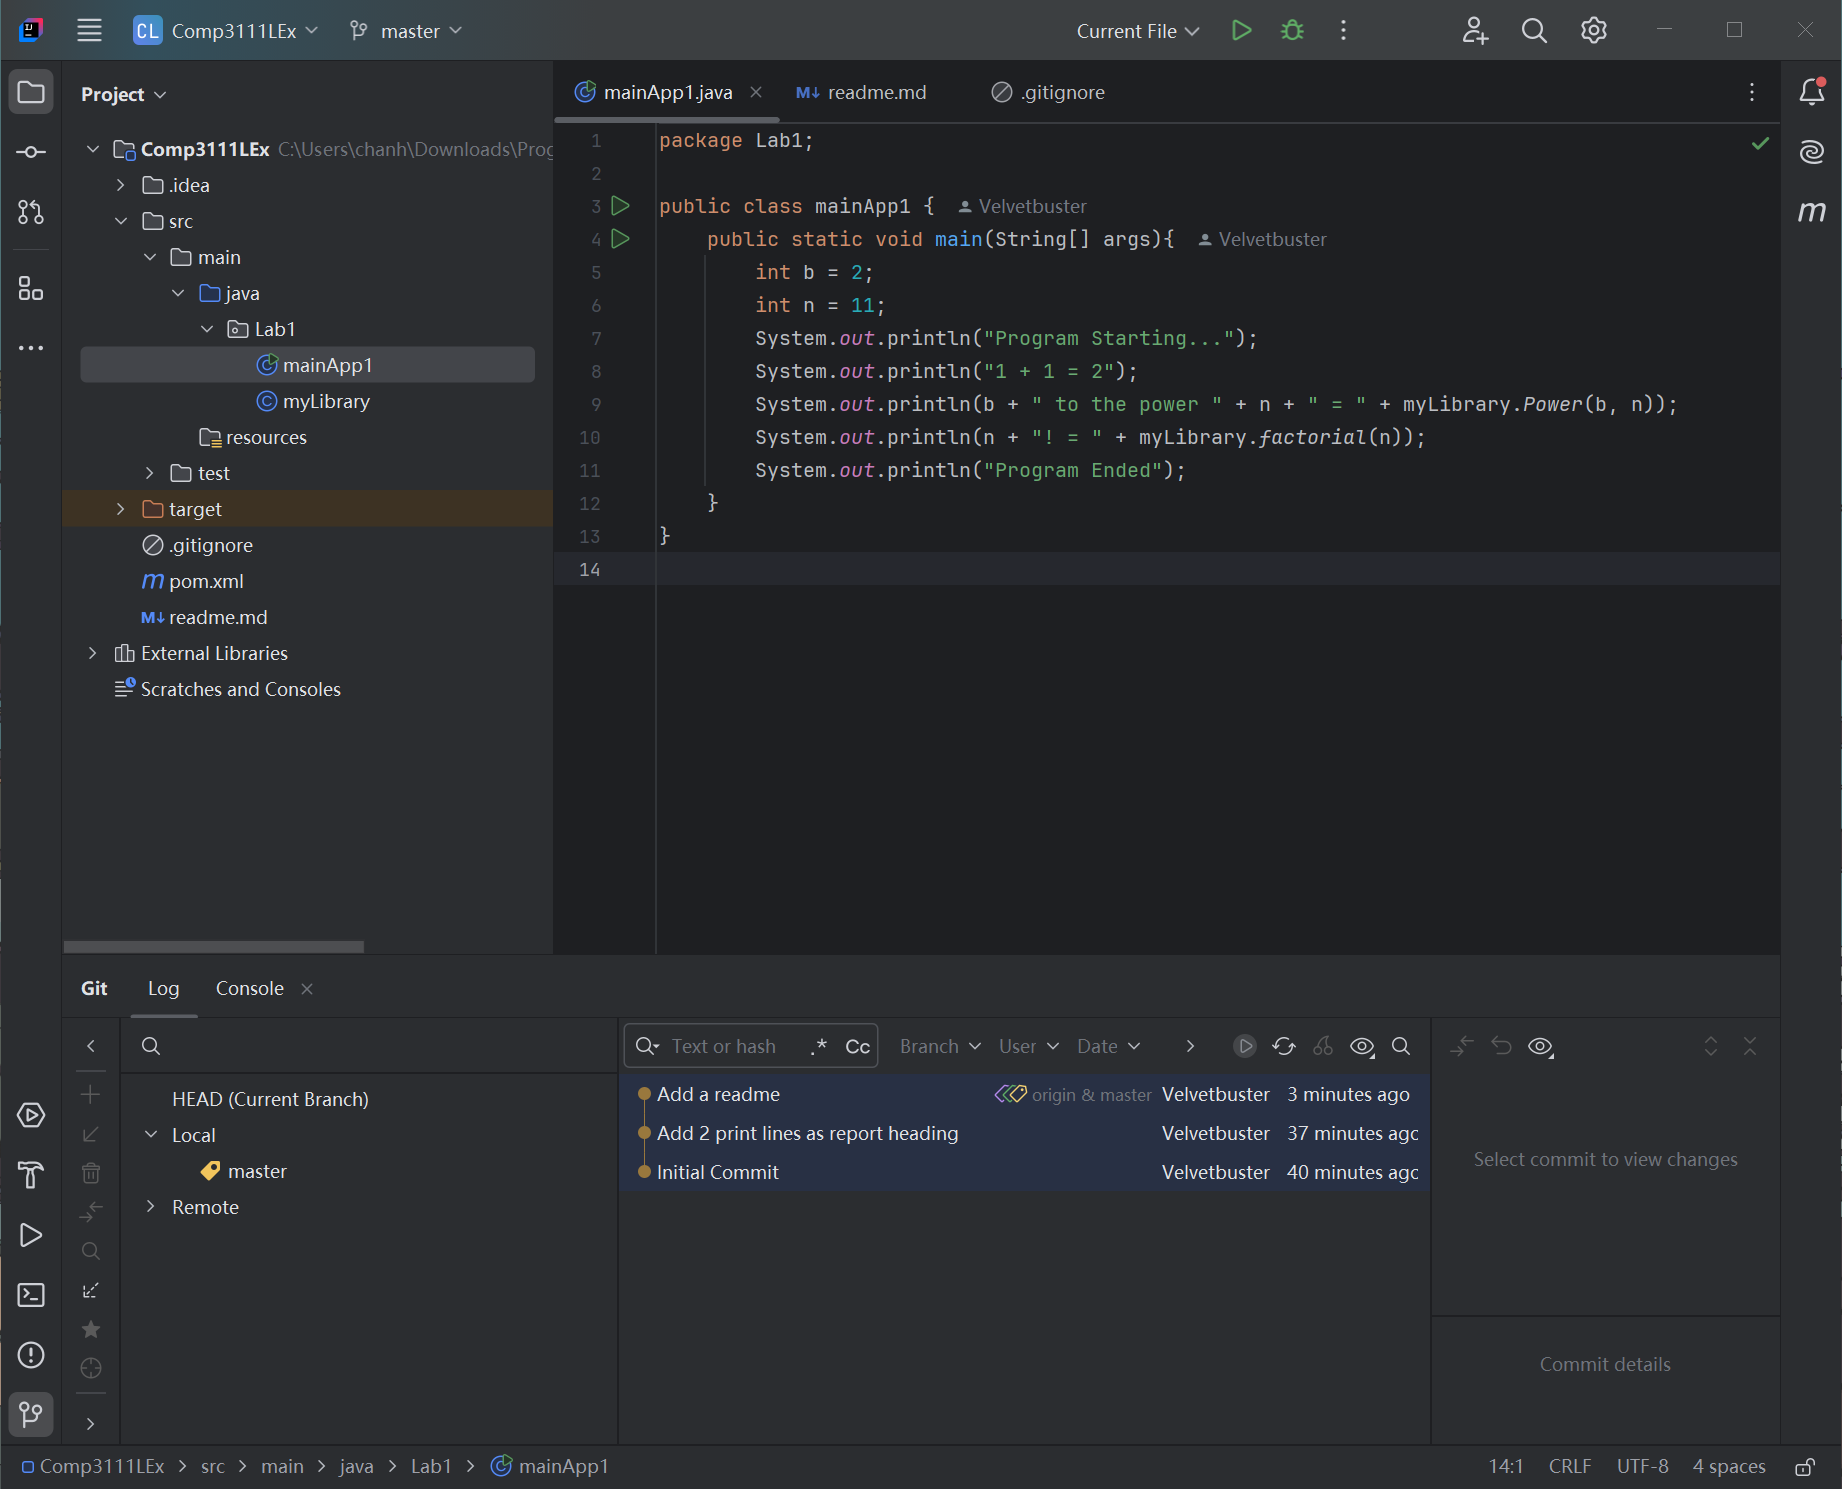
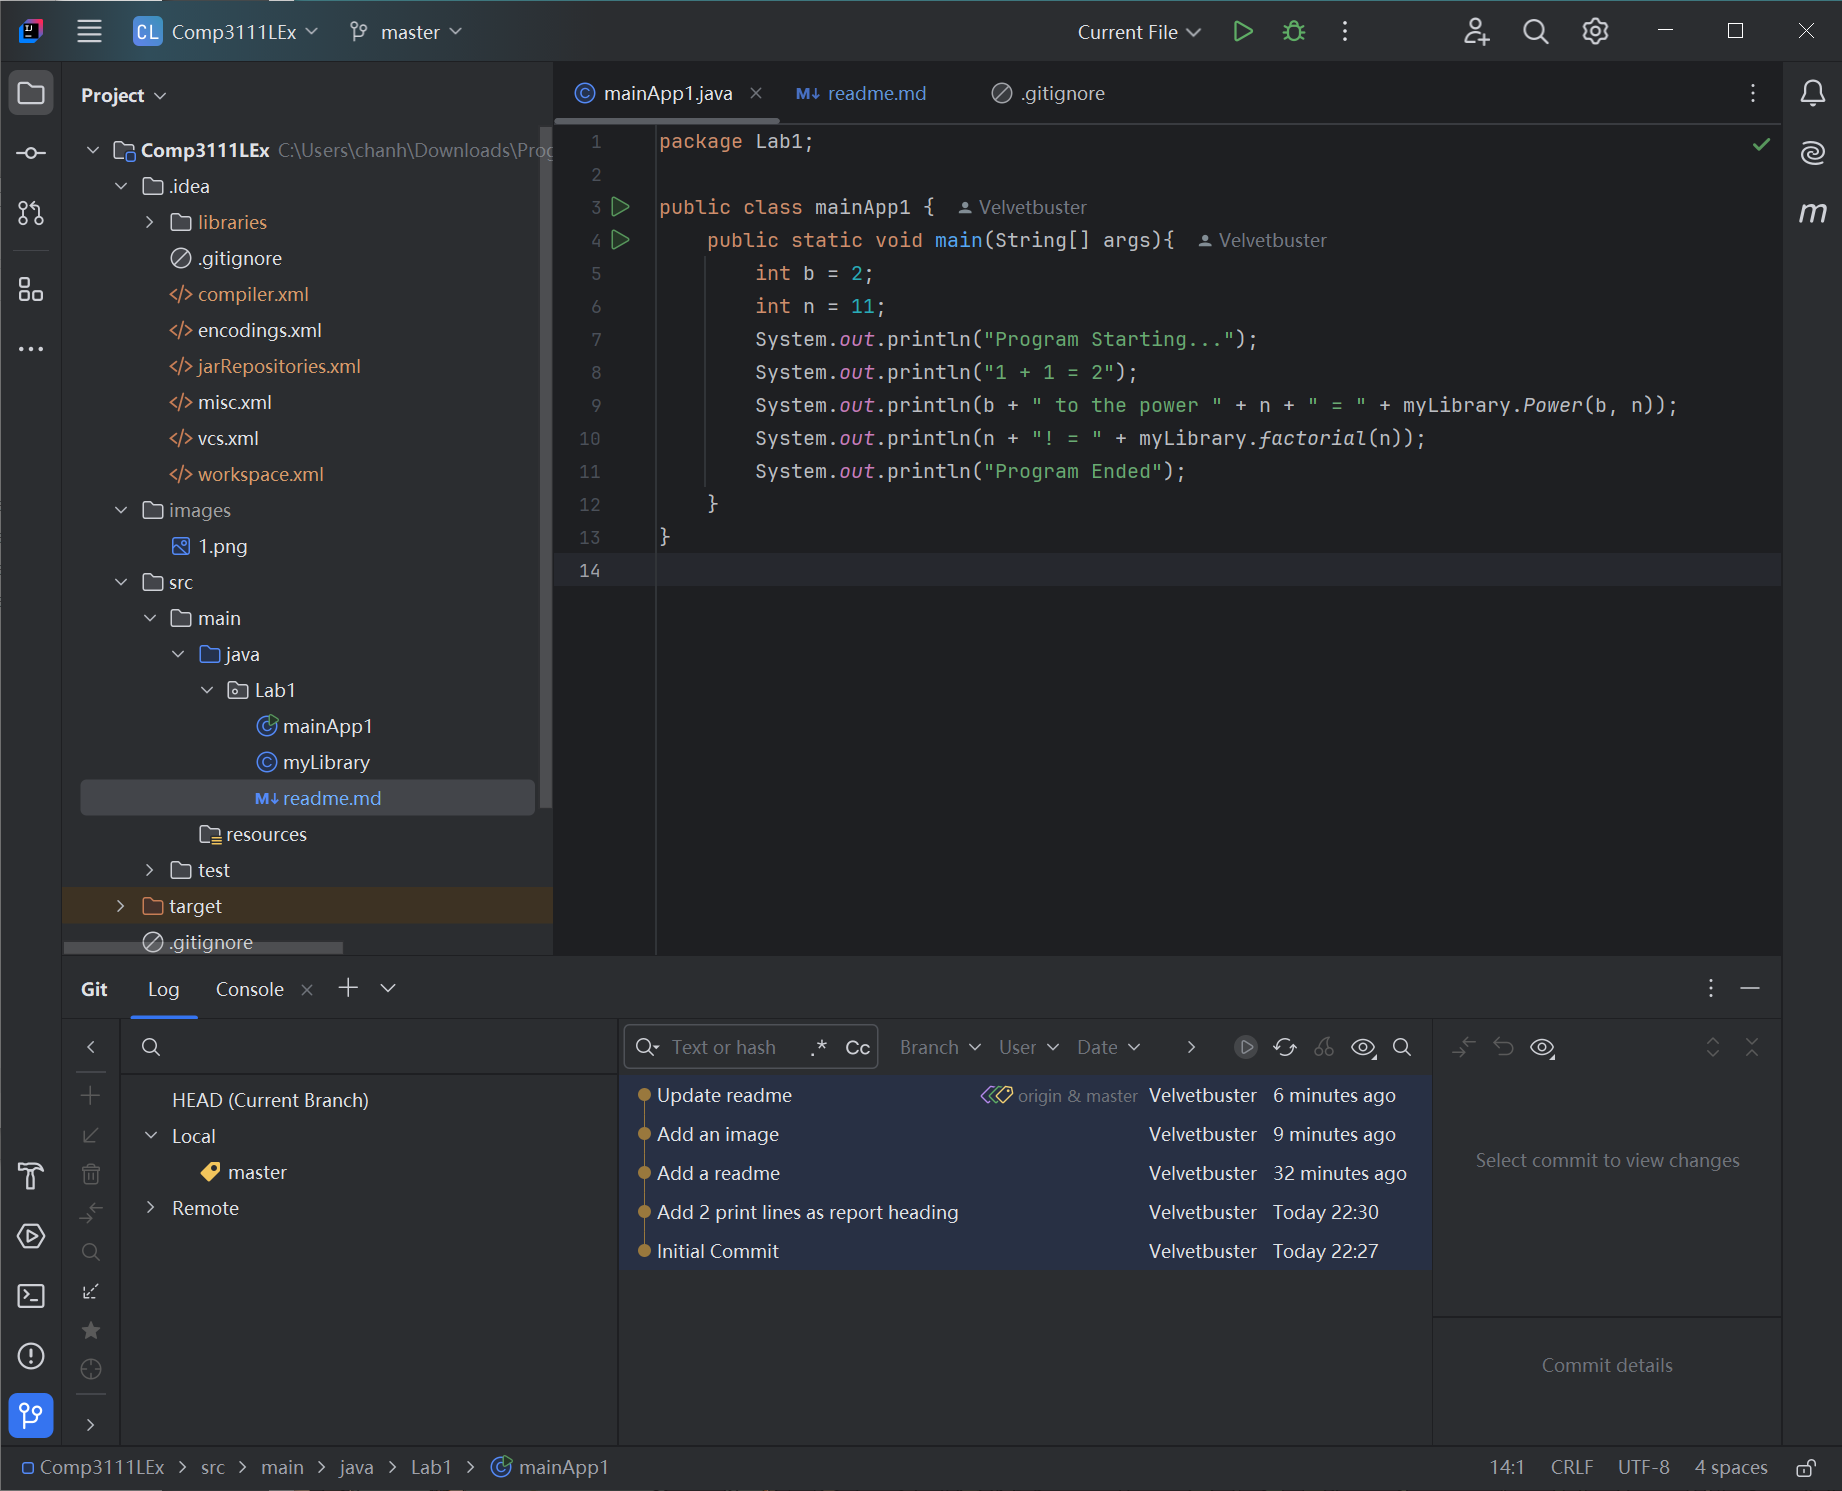
Update readme

diff --git a/src/main/java/Lab1/readme.md b/src/main/java/Lab1/readme.md
@@ -10,4 +10,4 @@ This is a sample project for COMP 3111.
 
 A screenshot of the IDE.
 
-![](/images/1.png)
+![](../../../../images/1.png)
